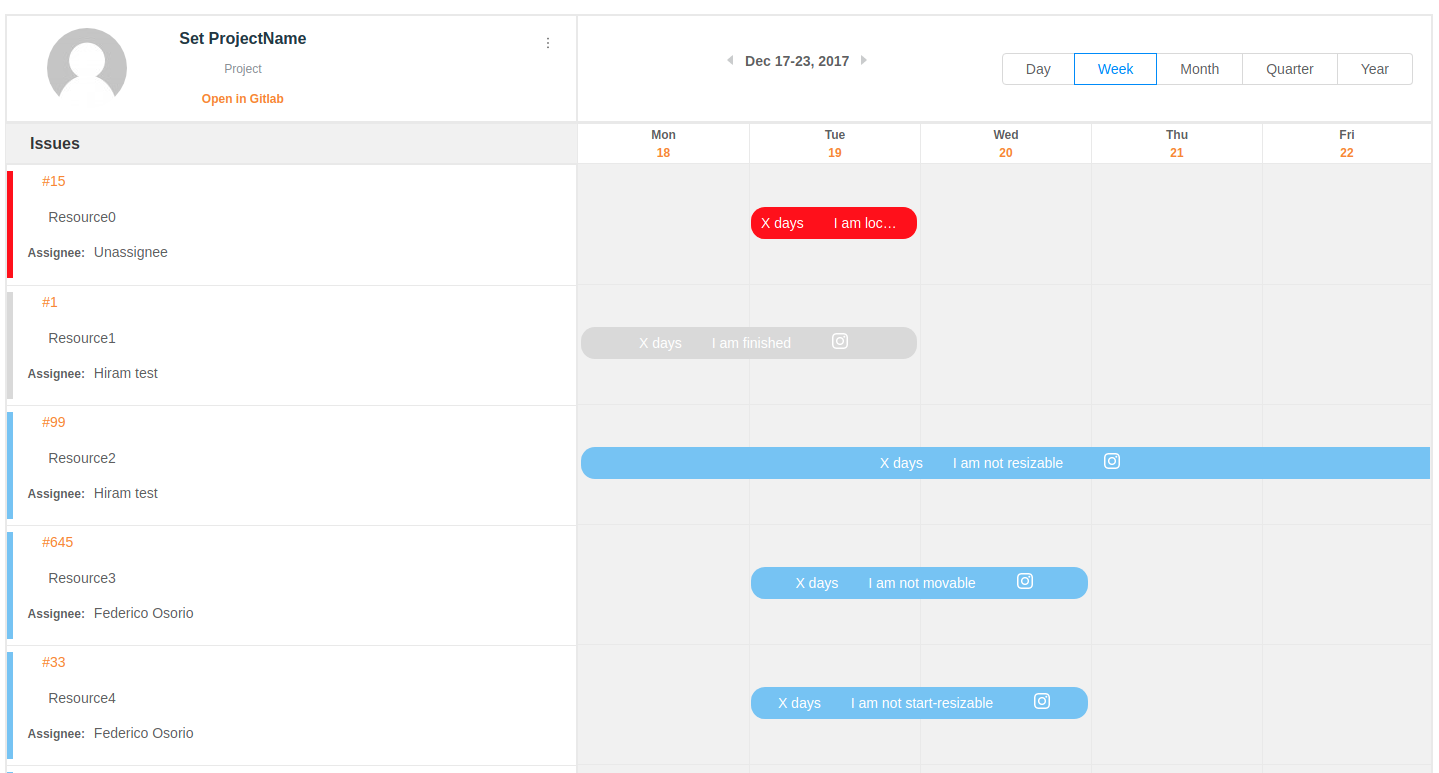
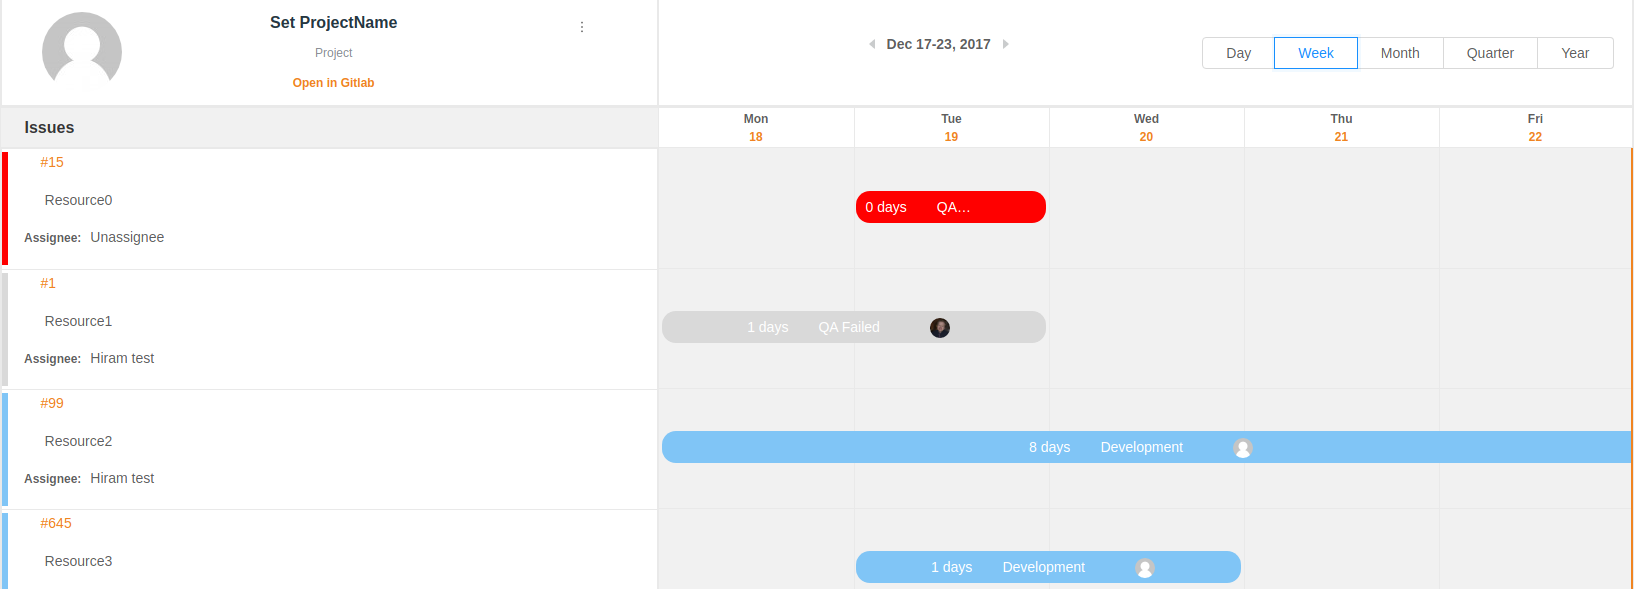
Updates Readme

diff --git a/README.md b/README.md
@@ -23,56 +23,51 @@ moment.locale('zh-cn');
 schedulerData.setLocaleMoment(moment);
 //set resources here or later
 let resources = [
-                    {
-                       id: 'r0',
-                       name: 'Resource0',
-                       groupOnly: true,
-                       author: 'X'
-                    },
-                    {
-                       id: 'r1',
-                       name: 'Resource1',
-                       author: 'X1'
-                    },
-                    {
-                       id: 'r2',
-                       name: 'Resource2',
-                       parentId: 'r0',
-                       author: 'X2'
-                    },
-                    {
-                       id: 'r3',
-                       name: 'Resource3',
-                       parentId: 'r4',
-                       author: 'X3'
-                    },
-                    {
-                       id: 'r4',
-                       name: 'Resource4',
-                       parentId: 'r2',
-                       author: 'X4'
-                    },
+                        {
+                  id: 'r0',
+                  name: 'Resource0',
+                  author: "X",
+                  bgColor: 'red',
+                  issue: '#1'
+              },
+              {
+                  id: 'r1',
+                  name: 'Resource1',
+                  author: "X",
+                  bgColor: '#D9D9D9',
+                  issue: '#2'
+              },
+              {
+                  id: 'r2',
+                  name: 'Resource2',
+                  author: "X",
+                  issue: '#99'
+              },
                 ];
 schedulerData.setResources(resources);
 //set events here or later,
 //the event array should be sorted in ascending order by event.start property, otherwise there will be some rendering errors
 let events = [
-                {
-                     id: 1,
-                     start: '2017-12-18 09:30:00',
-                     end: '2017-12-19 23:30:00',
-                     resourceId: 'r1',
-                     title: 'I am finished',
-                     bgColor: '#D9D9D9'
-                 },
-                 {
-                     id: 2,
-                     start: '2017-12-18 12:30:00',
-                     end: '2017-12-26 23:30:00',
-                     resourceId: 'r2',
-                     title: 'I am not resizable',
-                     resizable: false
-                 },
+                  {
+                      id: 1,
+                      start: '2017-12-18 09:30:00',
+                      end: '2017-12-19 23:30:00',
+                      resourceId: 'r1',
+                      title: 'I am finished',
+                      label: 'QA Failed',
+                      img: 'https://miro.medium.com/fit/c/28/28/1*UJzclN5h-DYWjRyVqXThUw.png',
+                      bgColor: '#D9D9D9',
+                      showPopover: false
+                  },
+                  {
+                      id: 2,
+                      start: '2017-12-18 12:30:00',
+                      end: '2017-12-26 23:30:00',
+                      resourceId: 'r2',
+                      title: 'I am not resizable',
+                      label: 'Development',
+                      resizable: false
+                  },
                  {
                      id: 3,
                      start: '2017-12-19 12:30:00',
